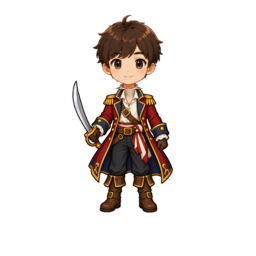
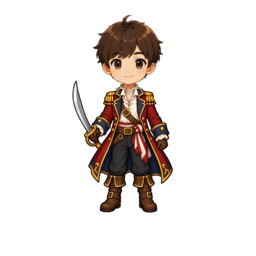
Align knight and captain to scientist baseline

Changed region(s): [[0.4062, 0.3438, 0.625, 0.4062]]

diff --git a/avatar-basic-pack-contract-selftest.js b/avatar-basic-pack-contract-selftest.js
@@ -47,6 +47,8 @@ assert.ok(renderer.includes('onePiece:true'),'production outfits must use the sh
 assert.ok(studentShop.includes("shop-preview-base shop-preview-head-only"),'student shop must use the shared head/neck mask');
 assert.ok(outfitBake.includes('FACE_KEEP_OUT = (104, 48, 153, 88)'),'outfit bake must preserve authored necklines from Y=89');
 assert.ok(previewBake.includes('HEAD_BOTTOM = 89'),'shop preview head mask must meet the authored neckline at Y=89');
+assert.ok(outfitBake.includes('SOURCE_X_ADJUST = {"silver-knight.png": -2}'),'silver knight source must align to the scientist X=128 visual baseline');
+assert.ok(outfitBake.includes('NECKLINE_RAISE = {"pirate-captain.png": 3}'),'pirate collar must match the scientist neck-length baseline');
 assert.ok(!fs.existsSync(path.join(root,'server/avatar-shop-pack-v5.js')),'temporary v5 catalog must be removed');
 assert.ok(!catalog.includes('avatarShopPackV4')&&!catalog.includes('avatarShopPackV5'),'production catalog must not merge temporary packs');
 assert.ok(studentShop.includes("item.slot==='character'"),'student shop must retain future base-character product support');

diff --git a/scripts/bake-avatar-outfit-v2.py b/scripts/bake-avatar-outfit-v2.py
@@ -13,6 +13,8 @@ FILES = [
     "silver-knight.png",
     "star-mage.png",
 ]
+SOURCE_X_ADJUST = {"silver-knight.png": -2}
+NECKLINE_RAISE = {"pirate-captain.png": 3}
 
 MASTER = 256
 TARGET_BODY_X = 128
@@ -73,6 +75,16 @@ def protect_face(img: Image.Image) -> Image.Image:
     return out
 
 
+def raise_authored_neckline(img: Image.Image, pixels: int) -> Image.Image:
+    """Extend only the existing central collar upward; keep feet/body anchors."""
+    if pixels <= 0:
+        return img
+    out = img.copy()
+    collar = img.crop((104, 89, 154, 106))
+    out.alpha_composite(collar, (104, 89 - pixels))
+    return out
+
+
 def bake(path: Path, target_foot_y: int):
     """Anchor authored artwork only; never synthesize garment pixels.
 
@@ -90,12 +102,15 @@ def bake(path: Path, target_foot_y: int):
     # The approved source art is already authored around body X=128.  Swords,
     # staffs, bows and capes are deliberately asymmetric, so alpha-derived X
     # centering would move the body differently for every outfit.
-    dx = 0
+    source_migration = foot_y != target_foot_y
+    dx = SOURCE_X_ADJUST.get(path.name, 0) if source_migration else 0
     dy = target_foot_y - foot_y
     if abs(dx) > 36 or abs(dy) > 48:
         raise RuntimeError(f"{path.name}: source outside migration tolerance dx={dx}, dy={dy}")
     baked = translate(img, dx, dy)
     baked = protect_face(baked)
+    if source_migration:
+        baked = raise_authored_neckline(baked, NECKLINE_RAISE.get(path.name, 0))
     baked.save(path, "PNG", optimize=True)
     print(f"{path.name}: bodyX 128->128, footY {foot_y}->{target_foot_y}, dx={dx}, dy={dy}")
 
